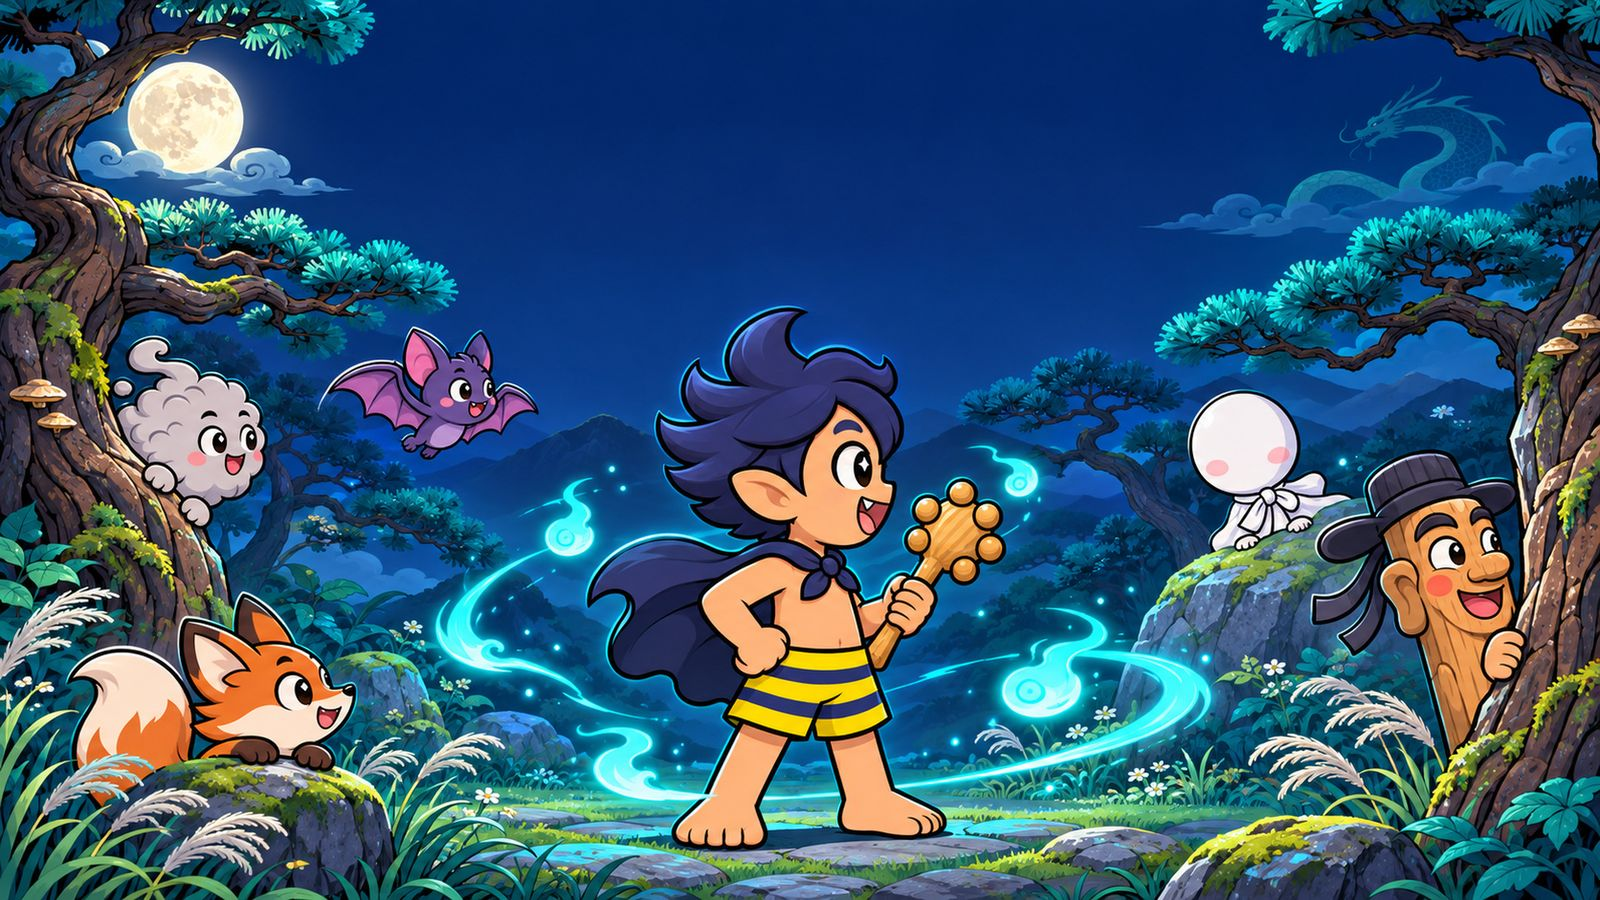
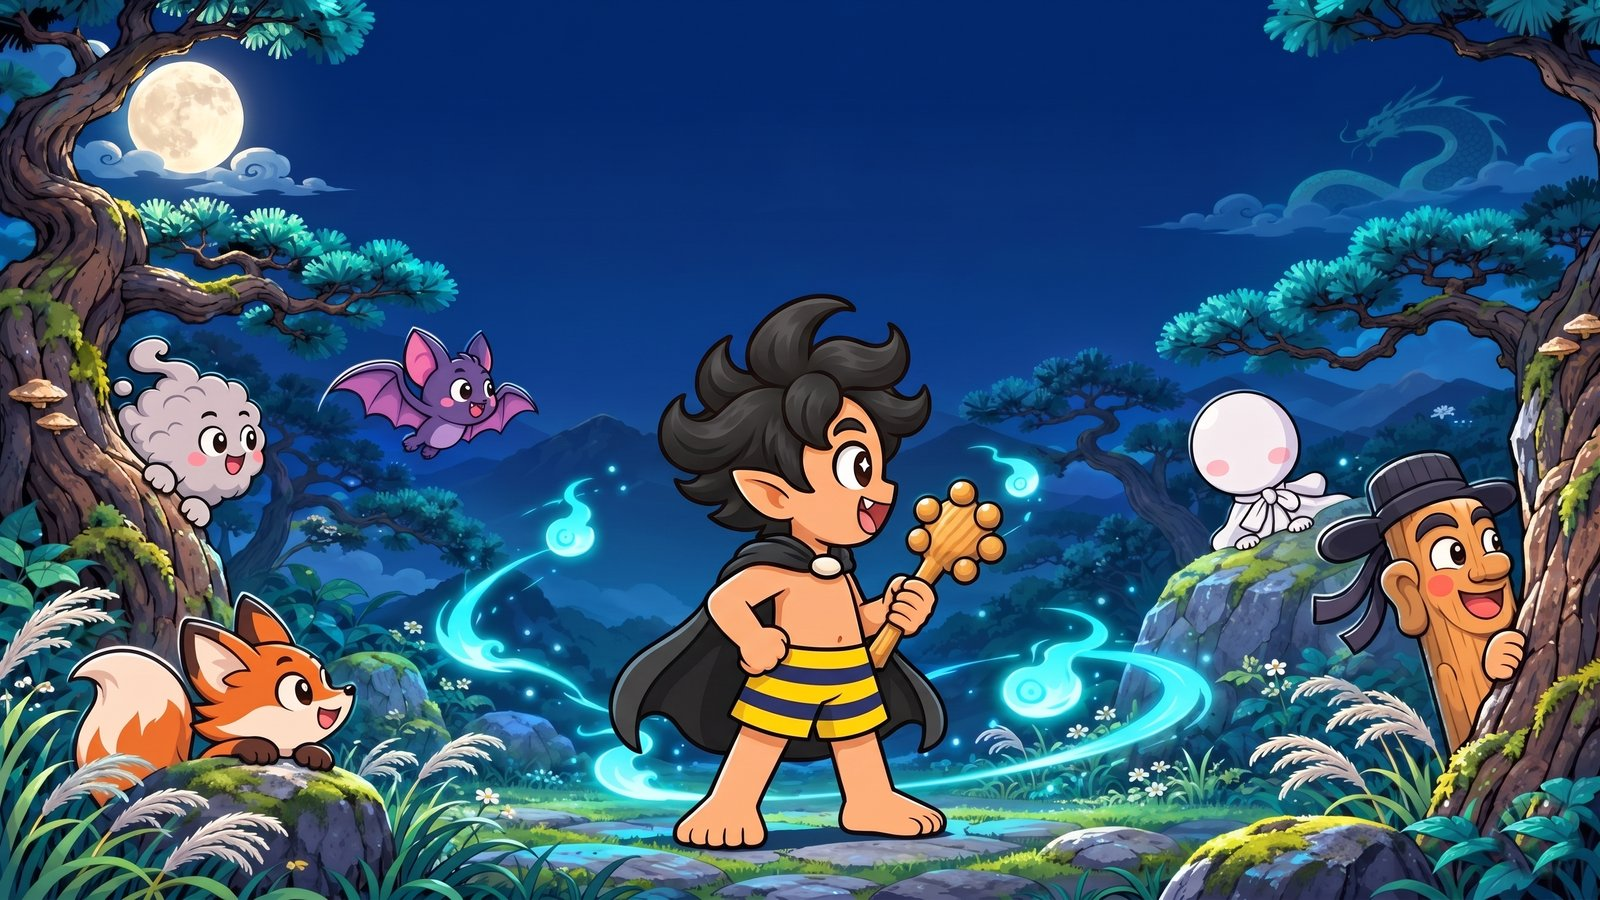
도깨비숲 생존기 시작 배경 깨비샘으로 교체 (#100)
* 홈 화면: 깨비샘 캐릭터와 새 사이트 이름(깨비샘과 쉬는 시간)

Claude-Session: https://claude.ai/code/session_01TJDp5XNDx63cZsB8aKiCUZ

* 홈 화면: 새 로고로 교체

Claude-Session: https://claude.ai/code/session_01TJDp5XNDx63cZsB8aKiCUZ

* 맞춤법 게임: 깨비샘 캐릭터와 새 로고 (깨비샘의 한글 맞춤법 대소동)

Claude-Session: https://claude.ai/code/session_01TJDp5XNDx63cZsB8aKiCUZ

* 영어 타자 연습: 깨비샘 캐릭터와 새 로고 (깨비샘의 영어 타자 연습)

Claude-Session: https://claude.ai/code/session_01TJDp5XNDx63cZsB8aKiCUZ

* 국기 맞히기: 깨비샘 캐릭터와 새 로고 (깨비샘의 국기 맞히기)

Claude-Session: https://claude.ai/code/session_01TJDp5XNDx63cZsB8aKiCUZ

* 블록 쌓기: 깨비샘 캐릭터와 새 로고 (깨비샘의 블록 쌓기)

Claude-Session: https://claude.ai/code/session_01TJDp5XNDx63cZsB8aKiCUZ

* 오목 대결: 깨비샘 캐릭터, 스티커, 새 로고 (깨비샘의 오목 대결)

Claude-Session: https://claude.ai/code/session_01TJDp5XNDx63cZsB8aKiCUZ

* 홈 화면: 로고 크게, 휴대폰 카드 썸네일을 원래 비율(10:9)로

Claude-Session: https://claude.ai/code/session_01TJDp5XNDx63cZsB8aKiCUZ

* 홈 화면: 인스타그램 계정 ggaebilog로 변경

Claude-Session: https://claude.ai/code/session_01TJDp5XNDx63cZsB8aKiCUZ

* 블록 쌓기: 제목 위 빼꼼 깨비샘 빼기

Claude-Session: https://claude.ai/code/session_01TJDp5XNDx63cZsB8aKiCUZ

* 알까기: 깨비샘 캐릭터와 새 로고 (깨비샘의 알까기)

Claude-Session: https://claude.ai/code/session_01TJDp5XNDx63cZsB8aKiCUZ

* 블록 쌓기: 블록이 들어간 새 로고

Claude-Session: https://claude.ai/code/session_01TJDp5XNDx63cZsB8aKiCUZ

* 맞춤법 게임: 새 로고로 교체

Claude-Session: https://claude.ai/code/session_01TJDp5XNDx63cZsB8aKiCUZ

* Use new 깨비샘 face (yellow circle) for site icons and face-64
[…]

diff --git a/survivor/index.html b/survivor/index.html
@@ -90,13 +90,13 @@
   .btns { display:flex; gap:10px; justify-content:center; flex-wrap:wrap; margin-top:14px; }
 
   /* 시작 화면 */
-  #start { background:linear-gradient(rgba(6,10,22,.1), rgba(6,10,22,.35)), url(img/start-bg.jpg) center/cover no-repeat #0b1228; }
+  #start { background:linear-gradient(rgba(6,10,22,.1), rgba(6,10,22,.35)), url(img/start-bg.jpg?v=2) center/cover no-repeat #0b1228; }
   #start .panel { width:min(760px,100%); background:rgba(8,14,36,.28); border-color:rgba(255,255,255,.35); }
   #start .panel .sub, #start .pick-title, #start #wp-desc, #start .howto { color:#fff; text-shadow:0 2px 0 rgba(8,12,30,.9), 0 0 8px rgba(8,12,30,.9); }
   #start .howto .kbd { text-shadow:none; }
   #start #title-text { color:#fff; text-shadow:0 3px 0 rgba(8,12,30,.9); }
   #start #title-logo { filter:drop-shadow(0 4px 8px rgba(8,12,30,.6)); }
-  #title { flex-direction:column; justify-content:space-between; padding:max(64px,7vh) 16px max(28px,7vh); background:linear-gradient(rgba(6,10,22,.05), rgba(6,10,22,0) 40%, rgba(6,10,22,.45)), url(img/start-bg.jpg) center/cover no-repeat #0b1228; }
+  #title { flex-direction:column; justify-content:space-between; padding:max(64px,7vh) 16px max(28px,7vh); background:linear-gradient(rgba(6,10,22,.05), rgba(6,10,22,0) 40%, rgba(6,10,22,.45)), url(img/start-bg.jpg?v=2) center/cover no-repeat #0b1228; }
   #big-logo { width:min(1000px,94vw); max-height:34vh; object-fit:contain; filter:drop-shadow(0 6px 12px rgba(8,12,30,.65)); animation:logoFloat 3.2s ease-in-out infinite; }
   #big-text { font-size:clamp(40px,9vw,96px); color:#fff; text-shadow:0 4px 0 rgba(8,12,30,.9); word-break:keep-all; text-align:center; }
   #big-text b { color:#8fe07a; font-weight:normal; }
